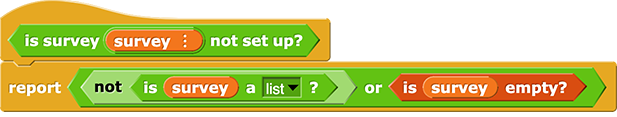
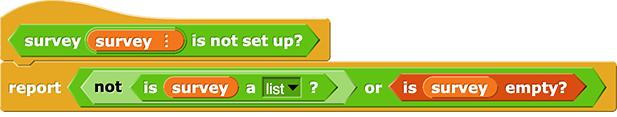
1.7 - resolving comments and prepping for partial release

Changed region(s): [[0.0308, 0.2308, 0.3387, 0.4615]]

diff --git a/middle-school/teaching-guide/U1/07-dealing-with-data-dos.html b/middle-school/teaching-guide/U1/07-dealing-with-data-dos.html
@@ -8,7 +8,7 @@
 
 	<body>
 		<h2>Lab 7: Dealing with Data Dos</h2>
-		<p>This lab culminates students' introduction to functional programming with a data processing project using higher-order functions and two-dimensional lists. Students design a survey on a topic of their choosing to investigate the relationship(s) between two or more variables. They then review <code>item of</code> and the higher-order function <code>map</code> and learn about <code>ask</code> and <code>add</code> as they create tools to collect data from other students, friends, or family. After collecting data, they review arithmetic operators and <code>if then else</code> and learn about <code>all but first</code>, <code>length of list</code>, and the higher-order functions <code>keep</code> and <code>combine</code> as they create various list processing tools to analyze their data and answer their research question.</p>
+		<p>This lab culminates students' introduction to functional programming with a data processing project using higher-order functions and two-dimensional lists. Students design a survey with multiple questions on a topic of their choosing. They then review <code>item of</code> and the higher-order function <code>map</code> and learn about <code>ask</code> and <code>add</code> as they create tools to collect data from other students, friends, or family. After collecting data, they review arithmetic operators and <code>if then else</code> and learn about <code>all but first</code>, <code>length of list</code>, and the higher-order functions <code>keep</code> and <code>combine</code> as they create various list processing tools to analyze their data and investigate their research topic.</p>
 		<div class="endnote">As a reminder, <strong>functional programming</strong> is a programming paradigm in which computation is achieved by composing functions (<em>reporter</em> and <em>predicate</em> blocks) together rather than sequencing (i.e., ordering) <em>command</em> blocks. Instead of using  iteration to process lists, it uses <strong>higher-order functions</strong>, which are functions that takes a function <em>itself</em>  as input. Functional programming also treats data as immutable, so data cannot be changed once it is created. For example after their initial creation, lists cannot be modified with the <code>add</code>, <code>insert</code>, and <code>delete</code> command blocks.
 		</div>
 		<p>This unit endeavors to prioritize functional programming as much as possible. This final lab uses <em>imperative</em> programming (uses commands to change the program's state) for gathering the data before switching to a strictly <em>functional</em> approach for data processing. We believe this is the first time a Middle School blocks-based programming course has taught functional programming <em>first</em>, and we seek to understand what works (i.e., engages, inspires, etc.) and what doesn't (i.e., confuses, frustrates, etc.).</p>
@@ -16,14 +16,15 @@
 
 		<h3>Pacing</h3>
 		<p>
-			This lab is designed for X&ndash;X class periods (<strong>X&ndash;X minutes</strong>).
+			<!--This lab is designed for X&ndash;X class periods (<strong>X&ndash;X minutes</strong>).-->
 			<ul>
 				<li><a href="#DA" title="Daily Activity: Computing in the News">Daily Activity: Computing in the News</a> 5&ndash;15 minutes each day</li>
 				<li><a href="#A1" title="Activity 1: Planning Your Survey">Activity 1: Planning Your Survey</a>: 25&ndash;50 minutes</li>
 				<li><a href="#A2" title="Activity 2: Setting Up Your Survey">Activity 2: Setting Up Your Survey</a>: 10&ndash;20 minutes</li>
 				<li><a href="#A3" title="Activity 3: Collecting Your Data">Activity 3: Collecting Your Data</a>: 30&ndash;60 minutes</li>
-				<li><a href="#A4" title="Activity 4: Accessing Your Data">Activity 4: Accessing Your Data</a>: X&ndash;X minutes</li>
-				<li><a href="#A5" title="Activity 5: Processing Your Data">Activity 5: Processing Your Data</a>: X&ndash;X minutes</li>
+				<!--<li><a href="#A4" title="Activity 4: Accessing Your Data">Activity 4: Accessing Your Data</a>: X&ndash;X minutes</li>
+				<li><a href="#A5" title="Activity 5: Processing Your Data">Activity 5: Processing Your Data</a>: X&ndash;X minutes</li>-->
+				<div class="endnote">There are additional activities forthcoming in which students access the responses in their survey, select specific data using <code>keep</code>, create additional data-processing functions using <code>combine</code>, and analyze the results of their investigation.</div>
 			</ul>
 		</p>
 
@@ -49,23 +50,22 @@
 				<li>
 					<strong>Prepare:</strong> 
 					<ul>
-						<li>Review the student page so that you understand the constraints on the student-selected research plans that will work well with this lab. Research questions should investigate the relationship between two (or more) variables. And data processing strategies should rely on actual Snap<em>!</em> capabilities (described in the student page). Students should be encouraged to go beyond the options they are presented with, but these minimum constraints are designed to ensure that students are in a position to create a successful data processing project with this lab design.</li>
+						<li>Review the student page so that you understand the constraints on the student-selected research plans that will work well with this lab. Investigation topics should be complex enough to support two or more survey questions, and data processing strategies should rely on actual Snap<em>!</em> capabilities (described in the student page). Students should be encouraged to go beyond the options they are presented with, but these minimum constraints are designed to ensure that students are in a position to create a successful data processing project with this lab design.</li>
 						<li>Consider whether it will help your students to use this <a href="https://docs.google.com/document/d/1uSDU7iI4oeaHnTRF7UtynKDbq6dgsOCuWbz0i-kO5M4/edit#" title="Activity 1: Planning Your Survey worksheet" target="_blank">Planning Your Survey worksheet</a>, and if so, prepare to share it with your class.</li>
 					</ul>
 				</li>
 				<li>
 					<strong>Learning Goals:</strong>
 					<ul>
-						<li>Develop a research question to investigate the relationship between two (or more) variables.</li>
-						<li>Design one one survey question to collect data about each variable.</li>
+						<li>Design a survey with multiple questions to investigate a specific topic.</li>
 						<li>Create a data processing strategy to investigate the research question.</li>
 					</ul>
 				</li>
 				<li>
 					<strong>Activity Plan:</strong>
 					<ul>
-						<li>Designing a Research Plan: Students briefly review the overall structure of their Lab 3 project (a survey with one question investigating one variable), create a research question to investigate the two (or more) variables, and develop corresponding survey questions. (10&ndash;20 minutes)</li>
-						<li>Designing a Data Processing Strategy: Students briefly consider the capabilities of Snap<em>!</em> that may be relevant to processing the data they collect, develop a rough plan for data collection (primarily to help ensure that their research question will yield a feasible project, and discuss their plan with a classmate. (15&ndash;30 minutes)</li>
+						<li>Designing a Research Plan: Students choose an investigation topic, and design a survey with two or more  questions to research it. (10&ndash;20 minutes)</li>
+						<li>Designing a Data Processing Strategy: Students briefly consider the capabilities of Snap<em>!</em> that may be relevant to processing the data they collect, develop a rough plan for data collection (primarily to help ensure that their topic of investigation will yield a feasible project, and discuss their plan with a classmate. (15&ndash;30 minutes)</li>
 					</ul>
 				</li>
 				<li>
@@ -82,7 +82,7 @@
 						<li><strong>2-DA-08:</strong> Collect data using computational tools and transform the data to make it more useful and reliable.</li>
 					</ul>
 				</li>
-				<li><strong>Solutions</strong>: This activity is creative and offline. Example research questions, variables, survey questions, and strategies for investigating a question are included on the student activity page.</li>
+				<li><strong>Solutions</strong>: This activity is creative and offline. Example investigation topics, survey questions, and strategies for investigating a question are included on the student activity page.</li>
 			</ul>
 		</div>
 
@@ -154,7 +154,7 @@
 					<ul>
 						<li>Asking the User a Question: Students review the structure of their table (a list of lists with only one list so far: their survey questions), learn how the <code>questions only</code> and <code>ask</code> blocks work, and discuss how to use these tools  to populate their table of data. (10&ndash;20 minutes)</li>
 						<li>Adding New Responses to Your Table: Students use the <code>map</code> block to create a <code>new response</code> block that takes survey data as input, asks the user each question in the survey, and reports a list of the user's responses. They then use the <code>add</code> block to append a user response to the end of the <var>my survey</var> list, and test their code by adding a few responses to the survey. (10&ndash;20 minutes)</li>
-						<li>Collecting Data: Students remove their test data from the survey and then collect the actual data they will process to answer their research question. (10&ndash;20 minutes)</li>
+						<li>Collecting Data: Students remove their test data from the survey and then collect the actual data they will process to investigate their topic. (10&ndash;20 minutes)</li>
 					</ul>
 				</li>
 				<li>
@@ -186,8 +186,10 @@
 				</div>			
 			</ul>
 		</div>
+	
+				<div class="endnote">There are additional activities forthcoming in which students access the responses in their survey, select specific data using <code>keep</code>, create additional data-processing functions using <code>combine</code>, and analyze the results of their investigation.</div>
 
-		<a class="back-to-top" href="#top">&uarr; Back to Top</a>
+		<!--<a class="back-to-top" href="#top">&uarr; Back to Top</a>
 		<h3>Activity 4: Accessing Your Data.<a name="A4" class="anchor">&nbsp;</a></h3>
 		<div>
 			<ul>
@@ -280,7 +282,7 @@
 				</div>			
 			</ul>
 		</div>
-	
+	-->
 		<!--<h3>Assignments</h3>
 		<div>
 			<ul>

diff --git a/middle-school/student-pages/U1/L7/01-planning-research.html b/middle-school/student-pages/U1/L7/01-planning-research.html
@@ -9,66 +9,41 @@
 	<body>
 		<h2>Planning Your Survey</h2>
 		<div class="learn">
-			<p><strong>In this lab,</strong> you will design a more sophisticated research question on a topic that interests you, and you will create tools to gather data and analyze the results.</p>
+			<p><strong>In this lab,</strong> you will design a more sophisticated research investigation on a topic that interests you, and you will create tools to gather data and analyze the results.</p>
 			<p><strong>In this activity,</strong> you will choose a research question and design and set up your survey.</p>
 		</div>
 
 		<!--<img class="imageRight noshadow" style="height:200px;" src="/bjc-r/middle-school/img/U1/lab03/pictograph.png" alt="pictograph with ice cream cones; the vertical axis is labeled 'Number of students' and the categories along on the horizontal axis are 'MintChip' showing three ice cream cones, 'Vanilla' showing four ice cream cones,  and 'Orange' showing one ice cream cone" title="pictograph with ice cream cones; the vertical axis is labeled 'Number of students' and the categories along on the horizontal axis are 'MintChip' showing three ice cream cones, 'Vanilla' showing four ice cream cones,  and 'Orange' showing one ice cream cone" />-->
 		<h3>Designing a Research Plan</h3>
-		<p>In <a href="/bjc-r/middle-school/student-pages/U1/L3/01-gathering-data.html?topic=middle-school%2F1-functions-data.topic&course=middle-school.html" title="Unit 1 Lab 3: Dealing with Data">Lab 3: Dealing with Data</a>, you created a survey with one question and collected data about one variable such as favorite ice cream flavor, music genre, fruit, sport, pizza topping, etc., and you created a pictograph of the results.</p>
-                <div class="comment">Do middle schoolers learn the terminology of "single-variable" vs "multi-variable" statistics/charts? I didn't think they did, and I'm concerned that the use of the term variable here might be overly confusing, especially when we introduce another meaning of variable soon. (And yes the terms are related, but I find they are different enough that I usually don't try hard to connect the math term to the programming term). What about a term like question, answer, option, etc? - PF 11/27</div>
-
-		<p>You've learned a lot since then, and you can now research a topic that will require multiple survey questions to investigate how <em>two</em> (or more) variables are related. And you can use Snap<em>!</em> to process the results for you.</p>
-
+		<p>In <a href="/bjc-r/middle-school/student-pages/U1/L3/01-gathering-data.html?topic=middle-school%2F1-functions-data.topic&course=middle-school.html" title="Unit 1 Lab 3: Dealing with Data">Lab 3: Dealing with Data</a>, you used a survey to collect data about one question (such as favorite ice cream flavor, music genre, fruit, sport, pizza topping, etc.) and created a pictograph of the results. You've learned a lot since then. Now, you can create a survey with <em>multiple</em> questions and use Snap<em>!</em> to process the results.</p>
 		<div class="forYouToDo">
 			<div class="takeNote">For privacy, don't design a research plan that requires asking for personal information such as name, address, phone number, birthday, etc.</div>
 			<ol>
 				<li>
-					Design a research question to investigate the relationship between two (or more) variables, and design your survey questions. Your survey should:
-					<ol>
-						<li>Have one question to collect data about each variable you are investigating</li>
-						<li>Take numbers as responses to at least one question</li>
-					</ol>
+					Choose a topic of investigation, and design two or more survey questions to research your topic. Your survey should take numbers as responses to at least one question.
 					<div class="endnote" style="clear: both;">
-						<p><a href="#hint-example-questions" data-toggle="collapse" title="Click for example research questions, variables, and survey questions.">Click for example research questions, variables, and survey questions.</a></p>
-						<div id="hint-example-questions" class="collapse">
-							<p>
-								<em>Example Research Question:</em> Do people stick with some sports longer than other sports?
-								<ul>
-									<li><em>Possible Variables:</em> sport played, years spent playing sport</li>
-									<li><em>Possible Survey Questions:</em>
-										<ul>
-											<li>What sport do you practice most?</li>
-											<li>How many years have you been practicing that sport?</li>
-										</ul>
-									</li>
-								</ul>
-							</p>
-								<!--<li>
-									<em>Do students do more extracurricular activities in certain grades?</em>
+						<p>
+							<em>Example Investigation Topic:</em> Do people stick with some sports longer than other sports?
+							<ul>
+								<li><em>Possible Survey Questions:</em>
 									<ul>
-										<li>You could survey people about <em>how many extracurricular activities people do</em> and <em>what grade they are in</em>.</li>
+										<li>What sport do you practice most?</li>
+										<li>How many years have you been practicing that sport?</li>
 									</ul>
 								</li>
-								<li>
-									<em>How does time it takes to get to school impact when people wake up?</em>
+							</ul>
+						</p>
+						<p>
+							<em>Example Investigation Topic:</em> Do people who have practiced music longer listen to more music?
+							<ul>
+								<li><em>Possible Survey Questions:</em>
 									<ul>
-										<li>You could survey people about <em>how long it takes them to get to school</em> and <em>what time they wake up</em>.</li>
+										<li>How many years have you been playing music?</li>
+										<li>How many hours do you listen to music each day?</li>
 									</ul>
-								</li>-->
-							<p>
-								<em>Example Research Question:</em> Do people who have practiced music longer listen to more music?
-								<ul>
-									<li><em>Possible Variables:</em> years spent playing music, hours spent listening to music each day</li>
-									<li><em>Possible Survey Questions:</em>
-										<ul>
-											<li>How many years have you been playing music?</li>
-											<li>How many hours do you listen to music each day?</li>
-										</ul>
-									</li>
-								</ul>
-							</p>
-						</div>
+								</li>
+							</ul>
+						</p>
 					</div>
 				</li>
 			</ol>
@@ -103,15 +78,13 @@
 						<p><a href="#hint-example-strategies" data-toggle="collapse" title="Click for example strategies for investigating a question.">Click for example strategies for investigating a question.</a></p>
 						<div id="hint-example-strategies" class="collapse">
 							<p>
-								<em>Example Research Question:</em> Do people stick with some sports longer than other sports?<br />
-								<em>Example Variables:</em> sport played, years spent playing sport
+								<em>Example Investigation Topic:</em> Do people stick with some sports longer than other sports?
 								<ul>
 									<li><em>Possible data processing strategy:</em> Make Snap<em>!</em> process the data for each sport played one at a time and find the average years spent playing each one.</li>
 								</ul>
 							</p>
 							<p>
-								<em>Example Research Question:</em> Do people who have practiced music longer listen to more music?
-								<em>Example Variables:</em> years spent playing music, hours spent listening to music each day
+								<em>Example Investigation Topic:</em> Do people who have practiced music longer listen to more music?
 								<ul>
 									<li><em>Possible data processing strategy:</em> Make Snap<em>!</em> identify the maximum, minimum, and average number of years spent playing music, use that  to choose a cutoff value (such as three years of playing music), and then have Snap<em>!</em> find the average hours spent listening for people who have played more than or less than that cutoff value and compare.</li>
 								</ul>
@@ -119,13 +92,12 @@
 						</div>
 					</div>
 				</li>
-				<li><img class="inline" src="/bjc-r/img/icons/talk-with-your-partner-mini.png" alt="Talk with Your Partner" title="Talk with Your Partner" /> Discuss your research question, variables, survey questions, and data processing strategy. Offer feedback on the plan you hear, and adjust your own plan based on any feedback that seems useful.</li>
+				<li><img class="inline" src="/bjc-r/img/icons/talk-with-your-partner-mini.png" alt="Talk with Your Partner" title="Talk with Your Partner" /> Discuss your investigation topic, survey questions, and data processing strategy. Offer feedback on the plan you hear, and adjust your own plan based on any feedback that seems useful.</li>
 			</ol>
 		</div>
-	        <div class="comment">I wonder if students will get confused between "research question" and "survey questions" here, since they're both "questions". I don't have a clearer wording suggestion however, just noting that it could happen. I suspect "research question" will be fuzzier in their head. - PF 11/27</div>
 	
 		<div class="learn">
-            <p>In this activity, you designed a research plan to investigate the relationship between two or more variables.</p>
+            <p>In this activity, you designed a research plan to investigate a topic using two or more survey questions.</p>
         </div>
         
 

diff --git a/middle-school/student-pages/U1/L7/03-collecting-data.html b/middle-school/student-pages/U1/L7/03-collecting-data.html
@@ -31,7 +31,7 @@
 		</div>-->
 		<p>
 			The <img class="inline nopadtb" src="/bjc-r/middle-school/img/U1/lab07/questions-only.png" alt="questions only from survey 'list input slot'" title="questions only from survey 'list input slot'" /> block takes a survey as input and reports its first row with all the questions.<br />
-			<!--<img class="indent" src="/bjc-r/middle-school/img/U1/lab07/questions-only-definition.png" alt="questions only from survey (survey data) {
+			<!-- <img class="indent" src="/bjc-r/middle-school/img/U1/lab07/questions-only-definition.png" alt="questions only from survey (survey data) {
 	report (item (1) from (survey data))
 }" title="questions only from survey (survey data) {
 	report (item (1) from (survey data))
@@ -79,16 +79,13 @@
 		
 		
 		<h3>Adding New Responses to Your Table</h3>
-		<p>The <code>questions only</code> block will report a list of the questions from the survey, and <img class="inline" src="/bjc-r/img/blocks/map.png" alt="map 'reporter input slot' over 'list input slot'" title="map 'reporter input slot' over 'list input slot'" /> will allow you to apply <code>ask</code> to every question in the list.</p>
-		<div class="endnote">You learned about the <code>map</code> block in <a href="/bjc-r/middle-school/student-pages/U1/L4/04-pixel-mapper.html?topic=middle-school%2F1-functions-data.topic&course=middle-school.html" title="Unit 1 Lab 4 Activity 4: Transforming Every Pixel">Lab 4 Activity 4: Transforming Every Pixel</a>.</div>
-               <div class="commentBig">Hmm, flow feels off to me. What about something that connects it more with the last Q of the last part? Like "The missing tool is the map block, which can apply an action to each item in a list. In this case, the action is ask'ing the user, and the list are the questions reported from [questions only]." Maybe that feels too obvious though? -PF 11/27</div>
-		
+		<p>The missing tool is the <img class="inline" src="/bjc-r/img/blocks/map.png" alt="map 'reporter input slot' over 'list input slot'" title="map 'reporter input slot' over 'list input slot'" /> block, which performs an action to each item in a list. In this case, the action is to <code>ask</code> the user, and the list is the output of <code>questions only</code> from <code>my survey</code>.</p>
+		<div class="endnote">You learned about the <code>map</code> block in <a href="/bjc-r/middle-school/student-pages/U1/L4/04-pixel-mapper.html?topic=middle-school%2F1-functions-data.topic&course=middle-school.html" title="Unit 1 Lab 4 Activity 4: Transforming Every Pixel">Lab 4 Activity 4: Transforming Every Pixel</a>.</div>		
 		<div class="forYouToDo">
             <ol start="5">
 				<li>
-					Write the code to make <img class="inline" src="/bjc-r/middle-school/img/U1/lab07/new-response.png" alt="new response for 'list input slot'" title="new response for 'list input slot'" /> take survey data as input, ask the user each question in the survey, and report a list of the user's responses. Test the block, and make sure it works before moving on to the next step: adding the user responses to the survey.<br />
-<div class="commentBig">The input parameter for new response is named survey data, I think it should just be survey now, for consistency with others? (survey data sounds like all but first row to me).-PF 11/27</div>
-<div class="commentBig">Do you say "write code" for Snap? Snapping blocks doesn't feel like writing to me, but if its standard wording, thats fine. -PF 11/27</div> 
+					Complete the block definition for <img class="inline" src="/bjc-r/middle-school/img/U1/lab07/new-response.png" alt="new response for 'list input slot'" title="new response for 'list input slot'" /> so that it takes a survey as input, asks the user each question in the survey, and reports a list of the user's responses. Test the block, and make sure it works before moving on to the next step: adding the user responses to the survey.<br />
+					<div class="sidenoteBig">You'll need to drag the <img class="inline" src="/bjc-r/middle-school/img/U1/lab07/my-survey.png" alt="my survey" title="my survey" /> variable out of the palette on the left and into the empty input slot.</div>
 					<img class="indent" src="/bjc-r/middle-school/img/U1/lab07/new-response-reporting.png" alt="new response for (my survey) reporting the list {soccer, 3}" title="new response for (my survey) reporting the list {soccer, 3}" />
 					<div class="endnote">
 						<p><a href="#hint-new-response" data-toggle="collapse" title="Click for a hint about building the new response block.">Click for a hint about building <code>new response</code>.</a></p>
@@ -99,8 +96,7 @@
 		</div>
 		
 		<p>The <code>new response</code> block reports the user's data, but it doesn't send it anywhere. The <img class="inline nopadtb" src="/bjc-r/img/blocks/add.png" alt="add () to 'list input slot'" title="add () to 'list input slot'" /> block will take data and add it the end of a list.<br />
-<div class="commentBig">...That also makes me wonder if we should point out explicitly that both ask and add-to are built-in Snap blocks available in any project? -PF 11/27</div>
-<div class="commentBig">Also: will students know how to duplicate the my survey variable or drag it from the side? I think this might be our first time using a global var so we might need to point it out, the first time they need to do it? (Probably up higher or even a previous page, just realized now! -PF 11/27</div>
+<div class="commentBig">...That also makes me wonder if we should point out explicitly that both ask and add-to are built-in Snap blocks available in any project? -PF 11/27<p>Actually, this version of ASK isn't built in. I think we need a larger and more gerneral discussion about if/when/how we are going to transition to full-Snap and if/when/how to explain what's built in. --MF, 12/5/21</p></div>
 			<img class="indent" src="/bjc-r/middle-school/img/U1/lab07/my-survey-sports-2-rows.png" alt="'my survey' watcher: a table with three rows and two columns. Row 1 column 1 has the text: 'Favorite sport?' and row 1 column 2 has the text: 'Years played?' Row 2 as the values 'soccer' and '4'. Row 3 as the values 'basketball' and '3'." title="'my survey' watcher: a table with three rows and two columns. Row 1 column 1 has the text: 'Favorite sport?' and row 1 column 2 has the text: 'Years played?' Row 2 as the values 'soccer' and '4'. Row 3 as the values 'basketball' and '3'." />
 			<span style="font-size:50px;">&rightarrow;</span>
 			<img src="/bjc-r/middle-school/img/U1/lab07/my-survey-sports-3-rows.png" alt="'my survey' watcher: a table with three rows and two columns. Row 1 column 1 has the text: 'Favorite sport?' and row 1 column 2 has the text: 'Years played?' Row 2 as the values 'soccer' and '4'. Row 3 as the values 'basketball' and '3'. Row 4 as the values 'soccer' and '5'." title="'my survey' watcher: a table with three rows and two columns. Row 1 column 1 has the text: 'Favorite sport?' and row 1 column 2 has the text: 'Years played?' Row 2 as the values 'soccer' and '4'. Row 3 as the values 'basketball' and '3'. Row 4 as the values 'soccer' and '5'." />

diff --git a/middle-school/student-pages/U1/L7/02-setting-up.html b/middle-school/student-pages/U1/L7/02-setting-up.html
@@ -14,23 +14,21 @@
 		<div class="forYouToDo">
             <ol>
 				<div class="sidenote"><strong>What is "Dos"?</strong> <p>The word "dos" means "two" in Spanish.</p></div>
-				<div class="todo">XML not linked yet.</div>
 				<li>
 					Open this <a class="js-run-v7 snap-project" href="/bjc-r/middle-school/prog/U1/lab07/data-dos.xml" title="Data Dos - Snap! project" target="_blank">Data Dos</a> project, and save it to your account. It includes the following script at the top:<br />
-					<img class="indent" src="/bjc-r/middle-school/img/U1/lab07/initialize-survey.png" alt="if (is survey (my survey) not set up?) {
+					<img class="indent" src="/bjc-r/middle-school/img/U1/lab07/initialize-survey.png" alt="if (survey (my survey) is not set up?) {
 	set (my survey) to (make survey with questions ())
-}" title="if (is survey (my survey) not set up?) {
+}" title="if (survey (my survey) is not set up?) {
 	set (my survey) to (make survey with questions ())
 }" /> 
-   <div class="commentBig">The "is" next to "if" is really throwing me off. We could drop the "is" or replace with "the"?? "if is" just doesn't roll off the english tongue. -PF 11/27</div>
 				</li>
 			</ol>
 		</div>
 		<div class="vocabBig">
-			<p>A <strong>variable</strong> is like a box that can store a value, such as a word, a number, or a list.</p>
-                        <div class="todo">I assume we're purposefully avoiding saying it's a global variable, to reduce unnecessary cognitive load? And how about saying "labeled box"? I actually have a blog post from way back which discussed all the metaphors for variables, and KA went with labeled boxes- https://cs-blog.khanacademy.org/2013/09/teaching-variables-analogies-and.html -PF 11/27</div>
-			<p>A <strong>table</strong> is a list of lists (a list with lists inside it).</p>
-                        <div class="todo">Is table part of Snap parlance? A table in most other programming realms would *not* simply be a 2d list, since a table typically has a very defined schema (columns/types), versus just a 2d list where the first row happens to be headers. If table is specific to this project, I'd be wary of giving it the same terminological weight as "variable" which is both a Snap term and programming term. -PF</div>
+			<p>A <strong>variable</strong> is like a labeled box that can store a value, such as a word, a number, or a list.</p>
+                        <div class="todo">I assume we're purposefully avoiding saying it's a global variable, to reduce unnecessary cognitive load? And how about saying "labeled box"? I actually have a blog post from way back which discussed all the metaphors for variables, and KA went with labeled boxes- https://cs-blog.khanacademy.org/2013/09/teaching-variables-analogies-and.html -PF 11/27<p>Add "labeled" in CSP? --MF, 11/30/21</p></div>
+			<p>In Snap<em>!</em>, a <strong>table</strong> is a list of lists (a list with lists inside it).</p>
+                        <div class="todo">Is table part of Snap parlance? A table in most other programming realms would *not* simply be a 2d list, since a table typically has a very defined schema (columns/types), versus just a 2d list where the first row happens to be headers. If table is specific to this project, I'd be wary of giving it the same terminological weight as "variable" which is both a Snap term and programming term. -PF<p>Add "in Snap<em>!</em>" in CSP? --MF, 11/30/21</p></div>
 		</div>
 		<p>
 			This script:
@@ -41,16 +39,15 @@
 			</ul>
 		</p>
 		<div class="endnote" style="clear: both;">
-			<p><a href="#hint-not-set-up" data-toggle="collapse" title="How does is 'survey not set up?' work?">How does <img class="inline" src="/bjc-r/middle-school/img/U1/lab07/is-survey-not-set-up.png" alt="is survey () not set up?" title="is survey () not set up?" /> work?</a></p>
+			<p><a href="#hint-not-set-up" data-toggle="collapse" title="How does is 'survey not set up?' work?">How does <img class="inline" src="/bjc-r/middle-school/img/U1/lab07/is-survey-not-set-up.png" alt="survey () is not set up?" title="survey () is not set up?" /> work?</a></p>
 			<div id="hint-not-set-up" class="collapse">
 				<p>
-					<img class="indent" src="/bjc-r/middle-school/img/U1/lab07/is-survey-not-set-up-definition.png" alt="is survey (survey) not set up? {
+					<img class="indent" src="/bjc-r/middle-school/img/U1/lab07/is-survey-not-set-up-definition.png" alt="survey () is not set up? {
 report ((not (is (survey) a ('list')?)) or (is (survey) empty?))
-}" title="is survey (survey) not set up? {
+}" title="survey () is not set up? {
 report ((not (is (survey) a ('list')?)) or (is (survey) empty?))
 }" /><br />
-					<!--The variable <var>my survey</var> will hold a list of lists, so if <var>my survey</var> is <em>not</em> a list, then it hasn't been set up, and so <code>is survey (my survey) not set up?</code> should report true. But it's possible that <var>my survey</var> <em>has</em> been set up as a list of lists and then emptied of all it's data (using a <code>reset survey</code> block), so if <var>my survey</var> is an <em>empty</em> list, then <code>is survey (my survey) not set up?</code> should report true in that case too. The <code>or</code> block checks both conditions.-->
-					The <code>is survey (my survey) not set up?</code> block takes a list as input and reports true if <em>either</em> of the following are true:
+					The <code>survey () is not set up?</code> block takes a list as input and reports true if <em>either</em> of the following are true:
 					<ul>
 						<li>The value stored in <var>my survey</var> is <em>not</em> a list</li>
 						<li>The value stored in <var>my survey</var> is an <em>empty</em> list</li>
@@ -93,6 +90,7 @@ report (list (questions))
 }" />
 						</p>
 						<p>The <code>reset survey</code> block takes a survey as input. If the response to "Are you sure" is "yes," then everything in the survey is deleted. Otherwise (that is, if there is any other response to the question), the sprite says "Survey not changed."</p>
+						<p>You'll need to drag the <img class="inline nopadtb" src="/bjc-r/middle-school/img/U1/lab07/my-survey.png" alt="my survey" title="my survey" /> variable out of the palette on the left and into the empty input slot.</p>
 					</div>
 				</div>
 			</ol>

diff --git a/middle-school/student-pages/U1/L7/04-accessing-data.html b/middle-school/student-pages/U1/L7/04-accessing-data.html
@@ -10,7 +10,8 @@
 		<h2>Accessing Your Data</h2>
 		<div class="todo">For U2, need to teach <code>length of list</code> and <code>/</code>.</div>
 		<div class="learn">In this activity, you'll build blocks to help you access specific data from your table so that you can analyze it to answer your research questions.</div>
-        
+        <div class="todo">have them use KEEP at least once even if they don't use it for their official analysis. --MF, 11/30/21</div>
+
 		
 		<h3>Accessing the Responses</h3>
 		<p>
@@ -46,6 +47,8 @@
 				</li>
 			</ol>
 		</div>
+
+		<div class="todo"><hr><h1>Break?</h1><hr></div>
 
 		<h3><code>Keep</code>ing Specific Items from Your List</h3>
 		<p>

diff --git a/middle-school/student-pages/U1/L7/05-processing-data.html b/middle-school/student-pages/U1/L7/05-processing-data.html
@@ -8,7 +8,8 @@
 
 	<body>
 		<h2>Processing Your Data</h2>
-		<div class="learn">
+		<div class="todo">Give them DISTINCT. They build: SUM, AVERAGE, MAX, MIN.</div>
+<div class="learn">
             <p>In this activity, you'll create blocks to make Snap<em>!</em> do math for you so you can process your data and answer your research question.</p>
         </div>
 		
